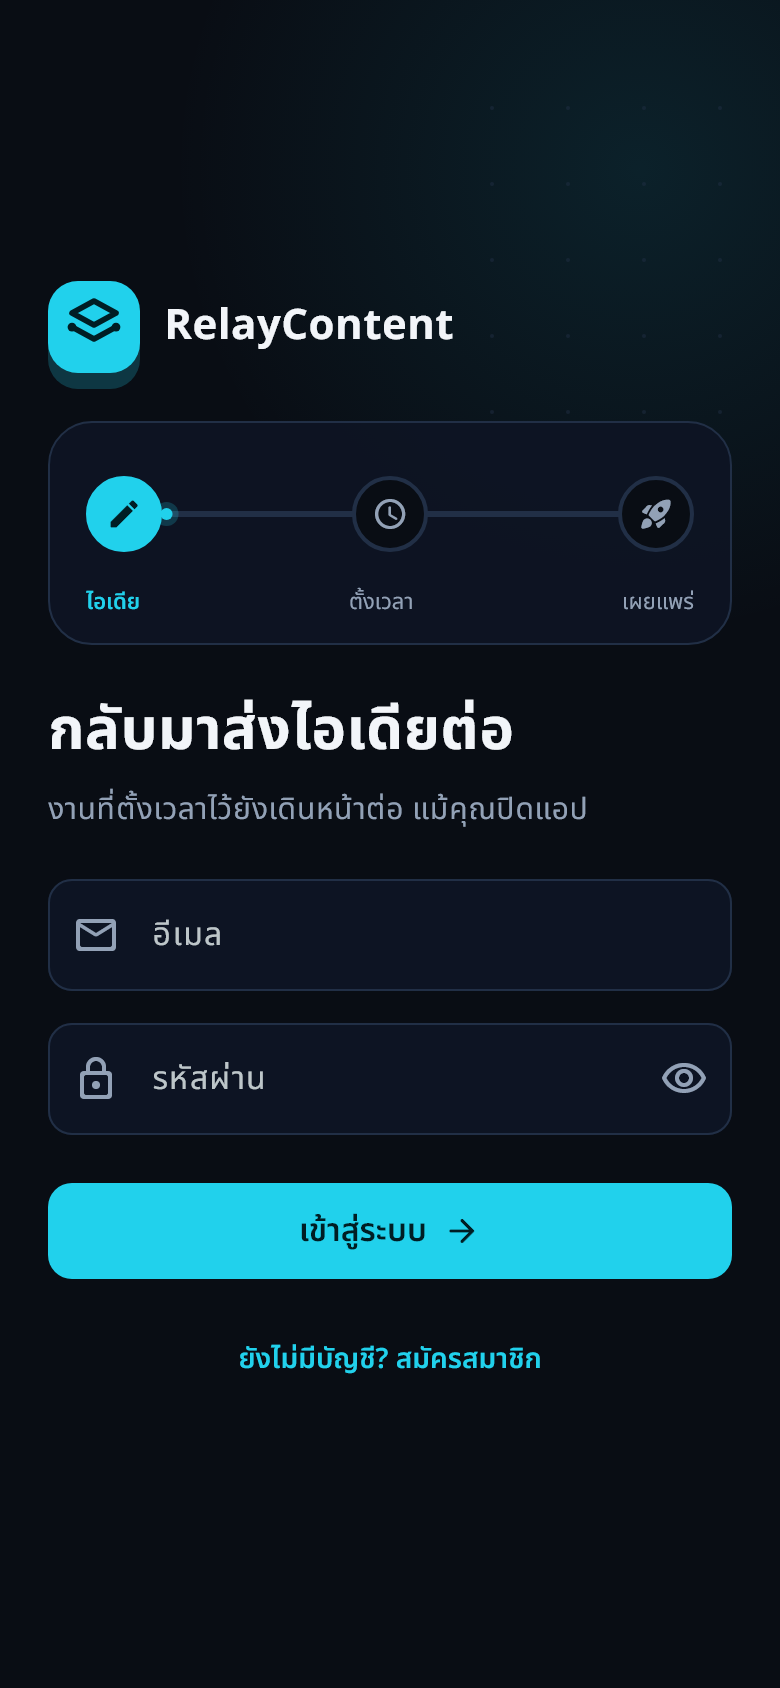
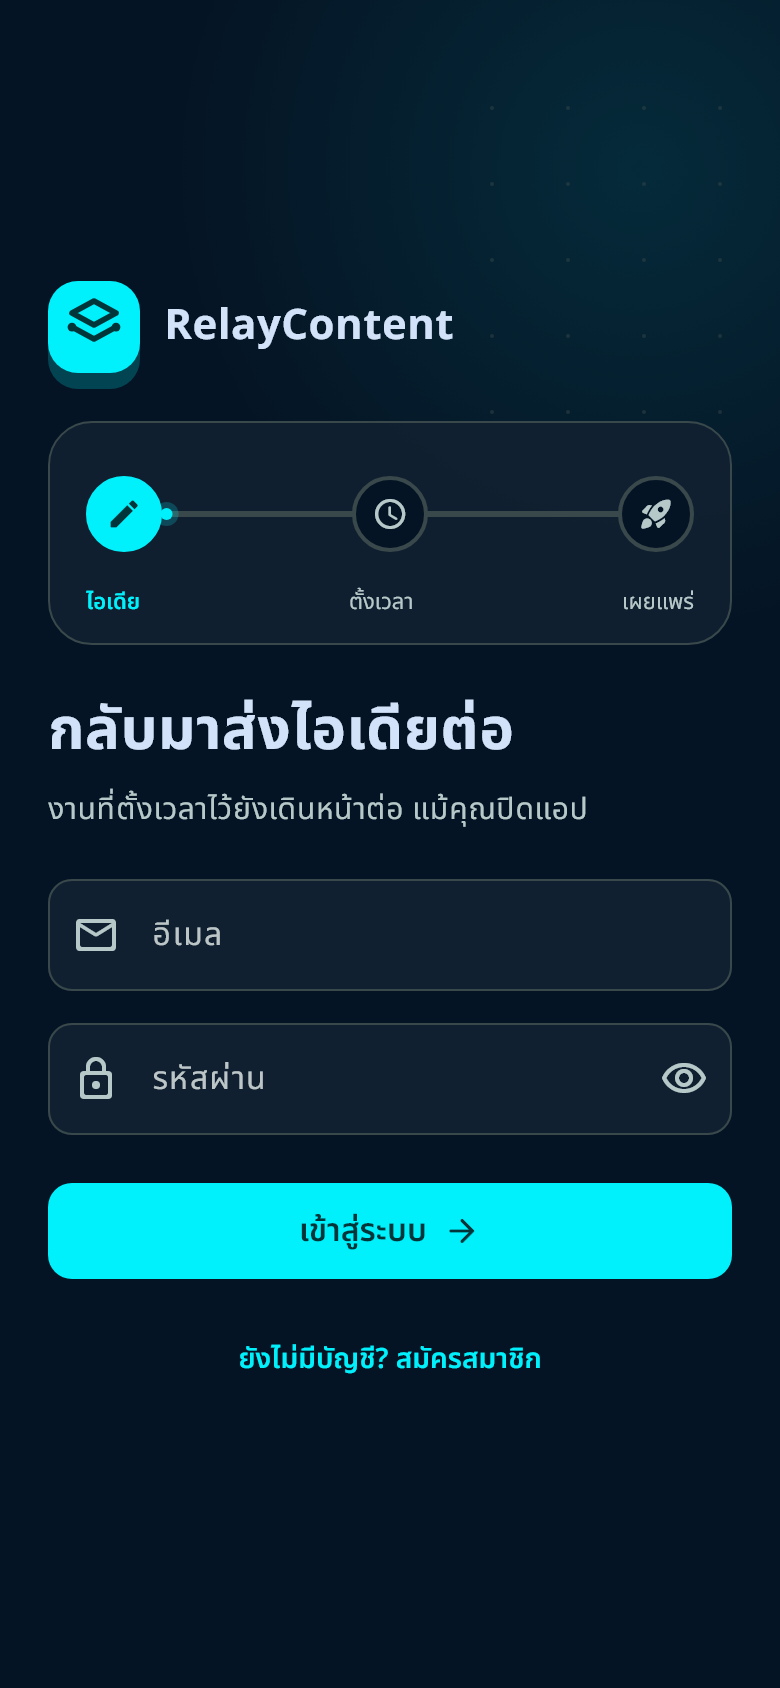
fix(mobile): แก้สี dark theme ให้ตรงกับ DESIGN.md ล่าสุด (review3) เป๊ะ
เช็คแล้วว่า review3 เป็นเวอร์ชันล่าสุดจริง (timestamp ใหม่สุดในสาม
review1/2/3) สีเดิมที่ใช้อยู่เป็นการ "ประมาณเอา" ไม่ตรงกับ token จริง
ใน stitch_relaycontent_mobile_ux_review3/relaycontent_creator_system/
DESIGN.md — อัปเดตให้ตรงเป๊ะโดย map จากชื่อ M3 token ไปยัง AppTokens
(รายละเอียด mapping อยู่เป็นคอมเมนต์ในโค้ด เผื่อสีอ้างอิงเปลี่ยนอีกในอนาคต)

จุดที่ต้องระวัง: DESIGN.md ใช้ typography "Plus Jakarta Sans"/"Noto Sans"
แต่ไม่มี glyph ภาษาไทย — คงฟอนต์ NotoSansThai ไว้ตามเดิม ไม่ตามเอกสารข้อนี้
(เคยเจอปัญหาตัวอักษรกลายเป็นกล่องสี่เหลี่ยมมาแล้วครั้งหนึ่ง)

หมายเหตุสำคัญ: **ไม่มีหน้า Login อยู่ใน Batch ที่อนุมัติล่าสุดเลย**
(review3 มีแค่ Splash, Connection Problem, Home 3 states, Notifications,
Showcase/Product 4 หน้า) หน้า Login ที่มีอยู่ตอนนี้จึงยังเป็นแค่การไล่สี
ของ Codex เอง ไม่ใช่การ implement ตามดีไซน์ที่อนุมัติ — ตอนนี้อย่างน้อย
สีตรงกับระบบล่าสุดแล้ว แต่โครงหน้า (layout/component) ยังไม่มีต้นแบบให้ตาม

flutter analyze: clean · flutter test: 72 passed · preview render ตรวจแล้ว

diff --git a/mobile/lib/app/theme/tokens.dart b/mobile/lib/app/theme/tokens.dart
@@ -64,19 +64,35 @@ class AppTokens extends ThemeExtension<AppTokens> {
     error: Color(0xFFDC2626),
   );
 
+  /// ค่าตรงตัวจาก stitch_relaycontent_mobile_ux_review3/relaycontent_creator_system
+  /// /DESIGN.md — เวอร์ชันล่าสุดที่อนุมัติแล้ว (เช็ค timestamp ยืนยันแล้วว่าใหม่สุด
+  /// ในบรรดา review1/2/3) ห้ามแก้ค่าตรงนี้ลอย ๆ โดยไม่เทียบกับไฟล์ต้นทางก่อน
+  ///
+  /// mapping จาก Material 3 token name → AppTokens:
+  ///   surface           = background / surface
+  ///   surfaceContainer  = surface-container
+  ///   surfaceElevated   = surface-container-high
+  ///   primary           = primary-container (สีปุ่มจริง ไม่ใช่ "primary" เฉย ๆ
+  ///                        ซึ่งใน M3 dark scheme เป็นสีอ่อนสำหรับตัวอักษรบนพื้นเข้ม)
+  ///   onPrimary         = on-primary (ตัวอักษรบนปุ่ม primary-container)
+  ///   creative          = secondary-container (ปุ่ม/แถบเน้นงานสร้างคอนเทนต์)
+  ///   textPrimary       = on-surface
+  ///   textSecondary     = on-surface-variant
+  ///   border            = outline-variant (ไม่ใช้ outline เพราะสว่างเกินไปสำหรับเส้นขอบ)
+  ///   success           = tertiary-container
   static const dark = AppTokens(
-    surface: Color(0xFF090D14),
-    surfaceContainer: Color(0xFF0E1524),
-    surfaceElevated: Color(0xFF151F32),
-    primary: Color(0xFF22D3EE),
-    creative: Color(0xFFE4004F),
-    onPrimary: Color(0xFF001F25),
-    textPrimary: Color(0xFFF4F7FB),
-    textSecondary: Color(0xFF94A3B8),
-    border: Color(0xFF223047),
-    success: Color(0xFF2EE59D),
+    surface: Color(0xFF051424),
+    surfaceContainer: Color(0xFF122131),
+    surfaceElevated: Color(0xFF1C2B3C),
+    primary: Color(0xFF00F2FE),
+    creative: Color(0xFFB90039),
+    onPrimary: Color(0xFF00373A),
+    textPrimary: Color(0xFFD4E4FA),
+    textSecondary: Color(0xFFB9CACB),
+    border: Color(0xFF3A494B),
+    success: Color(0xFF4AF7AD),
     warning: Color(0xFFF59E0B),
-    error: Color(0xFFEF4444),
+    error: Color(0xFFFFB4AB),
   );
 
   @override
